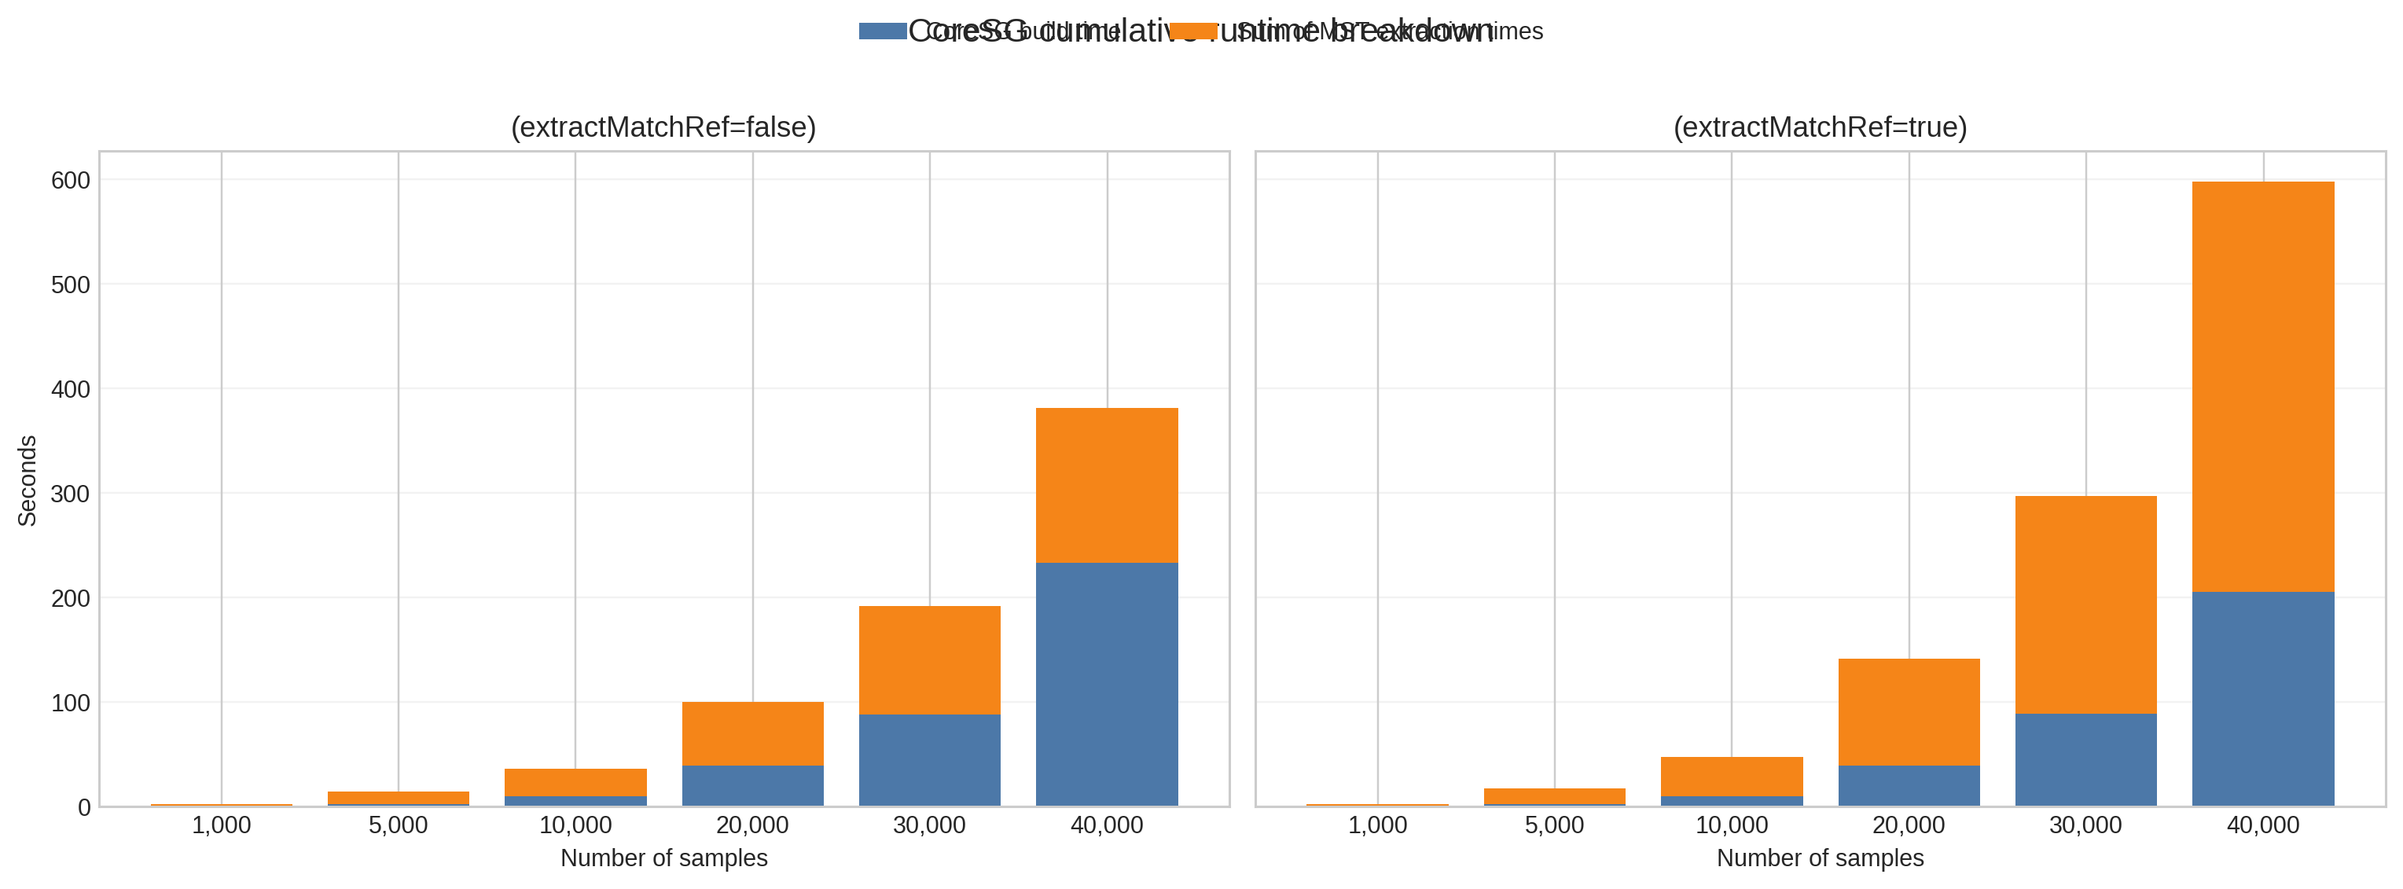
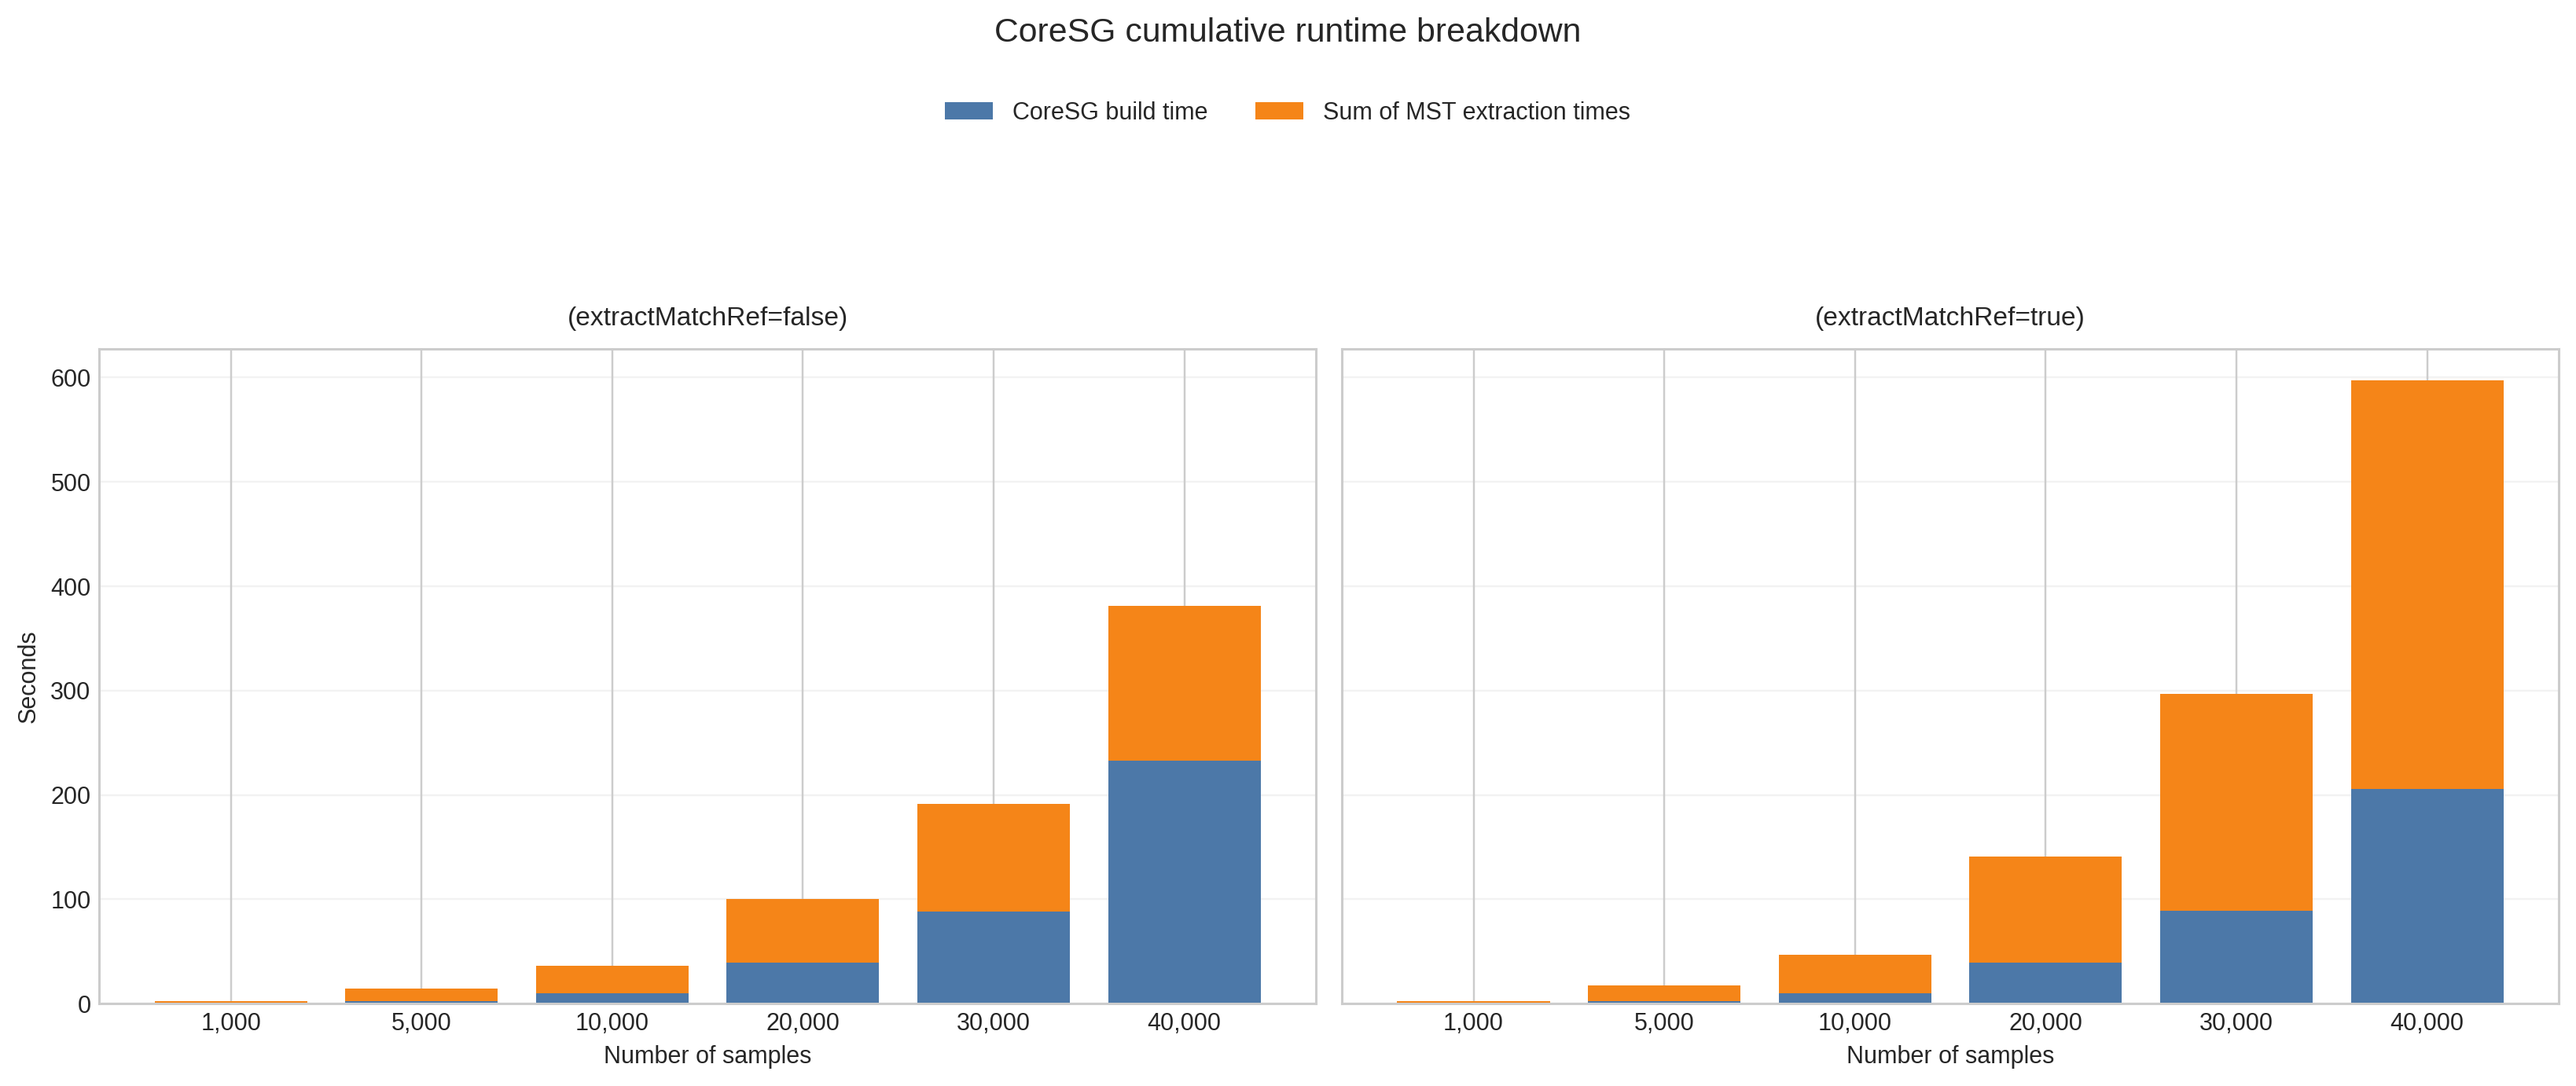
Adding: FIxing image

diff --git a/benchmarking/generate_report.py b/benchmarking/generate_report.py
@@ -362,7 +362,7 @@ def save_coresg_breakdown_plot(summary: pd.DataFrame) -> Path:
     subset = summary[summary["method"].isin(CORESG_METHODS)].copy()
     sample_sizes = sorted(subset["n_samples"].unique())
 
-    fig, axes = plt.subplots(1, 2, figsize=(14, 5), sharey=True)
+    fig, axes = plt.subplots(1, 2, figsize=(15, 6), sharey=True)
     colors = {"fit": "#4c78a8", "extract": "#f58518"}
 
     for axis, method in zip(axes, CORESG_METHODS):
@@ -381,16 +381,28 @@ def save_coresg_breakdown_plot(summary: pd.DataFrame) -> Path:
             color=colors["extract"],
             label="Sum of MST extraction times",
         )
-        axis.set_title(METHOD_LABELS[method].replace("CoreSG MST extraction ", ""))
+        axis.set_title(
+            METHOD_LABELS[method].replace("CoreSG MST extraction ", ""),
+            fontsize=11,
+            pad=10,
+        )
         axis.set_xticks(list(positions), [f"{n:,}" for n in sample_sizes])
         axis.set_xlabel("Number of samples")
+        axis.tick_params(axis="x", labelrotation=0, labelsize=10)
         axis.grid(True, axis="y", alpha=0.25)
 
     axes[0].set_ylabel("Seconds")
     handles, labels = axes[0].get_legend_handles_labels()
-    fig.legend(handles, labels, loc="upper center", ncol=2, frameon=False)
-    fig.suptitle("CoreSG cumulative runtime breakdown", fontsize=14, y=1.02)
-    fig.tight_layout()
+    fig.legend(
+        handles,
+        labels,
+        loc="upper center",
+        ncol=2,
+        frameon=False,
+        bbox_to_anchor=(0.5, 0.98),
+    )
+    fig.suptitle("CoreSG cumulative runtime breakdown", fontsize=14, y=1.04)
+    fig.tight_layout(rect=(0, 0, 1, 0.84))
 
     output_path = ASSETS_DIR / "coresg_runtime_breakdown.png"
     fig.savefig(output_path, dpi=220, bbox_inches="tight")
